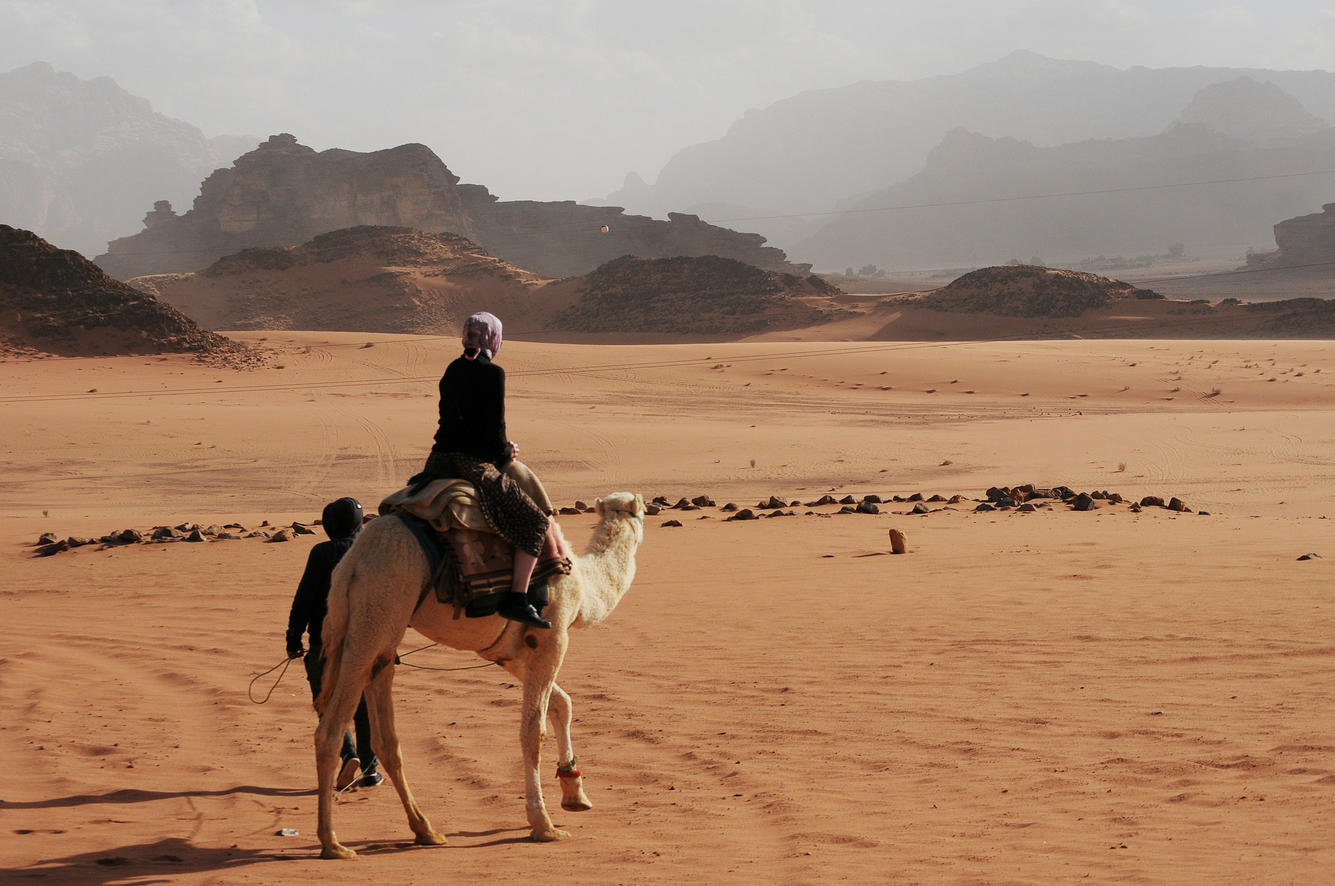
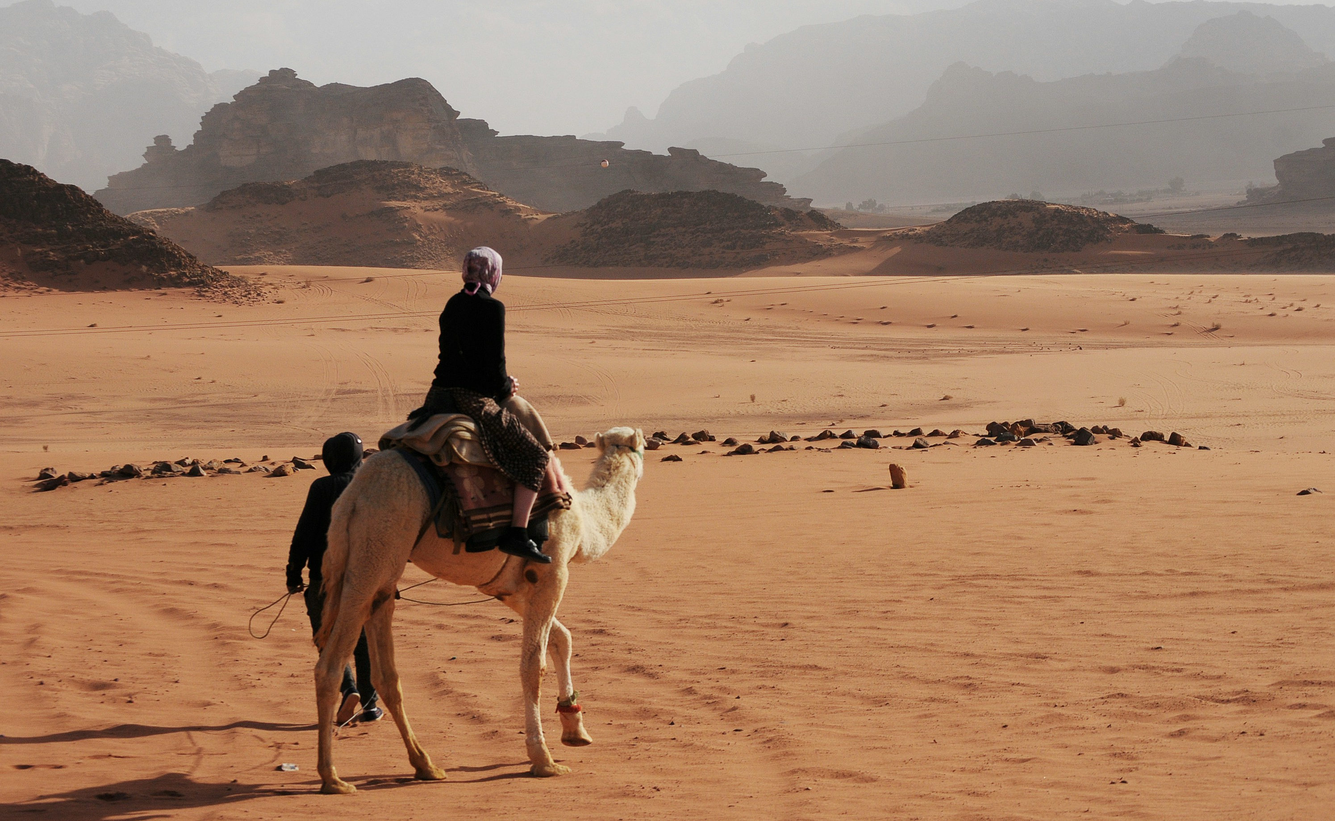
basic parallax done

diff --git a/src/App.jsx b/src/App.jsx
@@ -5,7 +5,12 @@ import CanyonDesertImage from '../components/CanyonDesertImage';
 import BigDunesImage from '../components/BigDunesImage';
 import SaharaSunImage from '../components/SaharaSunImage';
 import DesertCaveImage from '../components/DesertCaveImage';
-
+import SteelCanyonImage from '../components/SteelCanyonImage';
+import DesertRockImage from '../components/RockImage';
+import SunCanyonImage from '../components/SunCanyonImage';
+import ColorCanyonImage from '../components/ColorCanyonImage';
+import OceanDesertImage from '../components/OceanDesertImage';
+import SunDownImage from '../components/SunDownImage';
 import Jumbo from '../components/Jumbo';
 import DesertSongVerseOne from '../components/DesertSongVerseOne';
 import DesertSongVerseTwo from '../components/DesertSongVerseTwo';
@@ -19,40 +24,36 @@ export default function App() {
   return (
     <main>
       <h1>In The Desert</h1>
-
       <BigDunesImage />
-
       <Jumbo>
         <DesertSongVerseOne />
       </Jumbo>
-
       <BeduinesImage />
       <StoneDesertImage />
-
       <Jumbo>
         <DesertSongVerseTwo />
       </Jumbo>
-
-      <CanyonDesertImage />
-
+      <DesertCaveImage />
       <Jumbo>
         <DesertSongVerseThree />
       </Jumbo>
-
       <SaharaSunImage />
-      <DesertCaveImage />
-
+      <CanyonDesertImage />
+      <SunDownImage />
       <Jumbo>
         <DesertSongVerseFour />
       </Jumbo>
-
+      <ColorCanyonImage />
       <Jumbo>
         <DesertSongVerseFive />
       </Jumbo>
-
+      <SunCanyonImage />
+      <SteelCanyonImage />
+      <DesertRockImage />
       <Jumbo>
         <DesertSongVerseSix />
       </Jumbo>
+      <OceanDesertImage />
     </main>
   );
 }

diff --git a/components/SteelCanyonImage/index.jsx b/components/SteelCanyonImage/index.jsx
@@ -1,13 +1,13 @@
-/* :::: DesertCaveImage :::: */
+/* :::: SteelCanyonImage :::: */
 import { Parallax } from 'react-parallax';
-import Cave from '/desert_cave.jpg';
+import SteelCanyons from '/canyon_steels.jpg';
 
-export default function DesertCaveImage() {
+export default function SteelCanyonImage() {
   return (
     <Parallax
       blur={{ min: -15, max: 15 }}
-      bgImage={Cave}
-      bgImageAlt="cave in a desert"
+      bgImage={SteelCanyons}
+      bgImageAlt="canyon pillars"
       strength={800}
     >
       <div className="imageContent"></div>

diff --git a/components/SunDownImage/index.jsx b/components/SunDownImage/index.jsx
@@ -1,13 +1,13 @@
-/* :::: DesertCaveImage :::: */
+/* :::: SunDownImage :::: */
 import { Parallax } from 'react-parallax';
-import Cave from '/desert_cave.jpg';
+import SunDown from '/sundown.jpg';
 
-export default function DesertCaveImage() {
+export default function SunDownImage() {
   return (
     <Parallax
       blur={{ min: -15, max: 15 }}
-      bgImage={Cave}
-      bgImageAlt="cave in a desert"
+      bgImage={SunDown}
+      bgImageAlt="sundown in desert"
       strength={800}
     >
       <div className="imageContent"></div>

diff --git a/components/ColorCanyonImage/index.jsx b/components/ColorCanyonImage/index.jsx
@@ -1,0 +1,16 @@
+/* :::: ColorCanyon :::: */
+import { Parallax } from 'react-parallax';
+import ColorCanyon from '/colorcanyon.jpg';
+
+export default function ColorCanyonImage() {
+  return (
+    <Parallax
+      blur={{ min: -15, max: 15 }}
+      bgImage={ColorCanyon}
+      bgImageAlt="colorful sky with canyons"
+      strength={120}
+    >
+      <div className="imageContent"></div>
+    </Parallax>
+  );
+}

diff --git a/components/OceanDesertImage/index.jsx b/components/OceanDesertImage/index.jsx
@@ -1,0 +1,16 @@
+/* :::: OceanDesertImage :::: */
+import { Parallax } from 'react-parallax';
+import OceanDesert from '/ocean_desert.jpg';
+
+export default function OceanDesertImage() {
+  return (
+    <Parallax
+      blur={{ min: -15, max: 15 }}
+      bgImage={OceanDesert}
+      bgImageAlt="ocean meets desert"
+      strength={120}
+    >
+      <div className="imageContent"></div>
+    </Parallax>
+  );
+}

diff --git a/components/SunCanyonImage/index.jsx b/components/SunCanyonImage/index.jsx
@@ -1,0 +1,16 @@
+/* :::: SunCanyonImage :::: */
+import { Parallax } from 'react-parallax';
+import SunCanyon from '/canyon_sun.jpg';
+
+export default function SunCanyonImage() {
+  return (
+    <Parallax
+      blur={{ min: -15, max: 15 }}
+      bgImage={SunCanyon}
+      bgImageAlt="desert canyon sundown"
+      strength={120}
+    >
+      <div className="imageContent"></div>
+    </Parallax>
+  );
+}

diff --git a/components/RockImage/index.jsx b/components/RockImage/index.jsx
@@ -1,0 +1,16 @@
+/* :::: DesertRockImage :::: */
+import { Parallax } from 'react-parallax';
+import Rock from '/rock.jpg';
+
+export default function DesertRockImage() {
+  return (
+    <Parallax
+      blur={{ min: -15, max: 15 }}
+      bgImage={Rock}
+      bgImageAlt="rock in a desert"
+      strength={120}
+    >
+      <div className="imageContent"></div>
+    </Parallax>
+  );
+}

diff --git a/components/BeduinesImage/index.jsx b/components/BeduinesImage/index.jsx
@@ -10,9 +10,7 @@ export default function BeduinesImage() {
       bgImageAlt="beduines on a trail"
       strength={800}
     >
-      <div className="imageContent">
-        <p className="imageMsg">beduines on a trail</p>
-      </div>
+      <div className="imageContent"></div>
     </Parallax>
   );
 }

diff --git a/components/StoneDesertImage/index.jsx b/components/StoneDesertImage/index.jsx
@@ -10,9 +10,7 @@ export default function StoneDesertImage() {
       bgImageAlt="black rock desert"
       strength={800}
     >
-      <div className="imageContent">
-        <p className="imageMsg">black rock desert</p>
-      </div>
+      <div className="imageContent"></div>
     </Parallax>
   );
 }

diff --git a/components/CanyonDesertImage/index.jsx b/components/CanyonDesertImage/index.jsx
@@ -10,9 +10,7 @@ export default function CanyonDesertImage() {
       bgImageAlt="canyons"
       strength={800}
     >
-      <div className="imageContent">
-        <p className="imageMsg">canyon</p>
-      </div>
+      <div className="imageContent"></div>
     </Parallax>
   );
 }

diff --git a/components/SaharaSunImage/index.jsx b/components/SaharaSunImage/index.jsx
@@ -9,6 +9,8 @@ export default function SaharaSunImage() {
       bgImage={Sahara}
       bgImageAlt="sahara sun"
       strength={800}
-    ></Parallax>
+    >
+      <div className="imageContent"></div>
+    </Parallax>
   );
 }

diff --git a/src/index.css b/src/index.css
@@ -23,7 +23,7 @@ body {
   display: flex;
   justify-content: center;
   width: 100vw;
-  height: 80vh;
+  height: 84vh;
 }
 
 .imageMsg {
